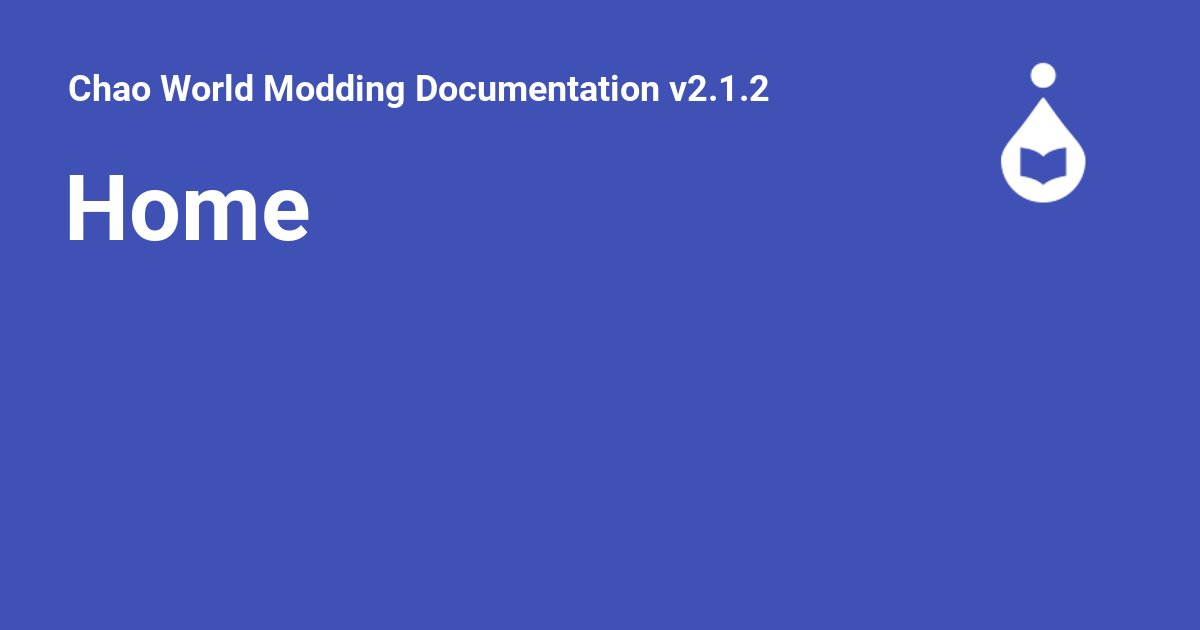
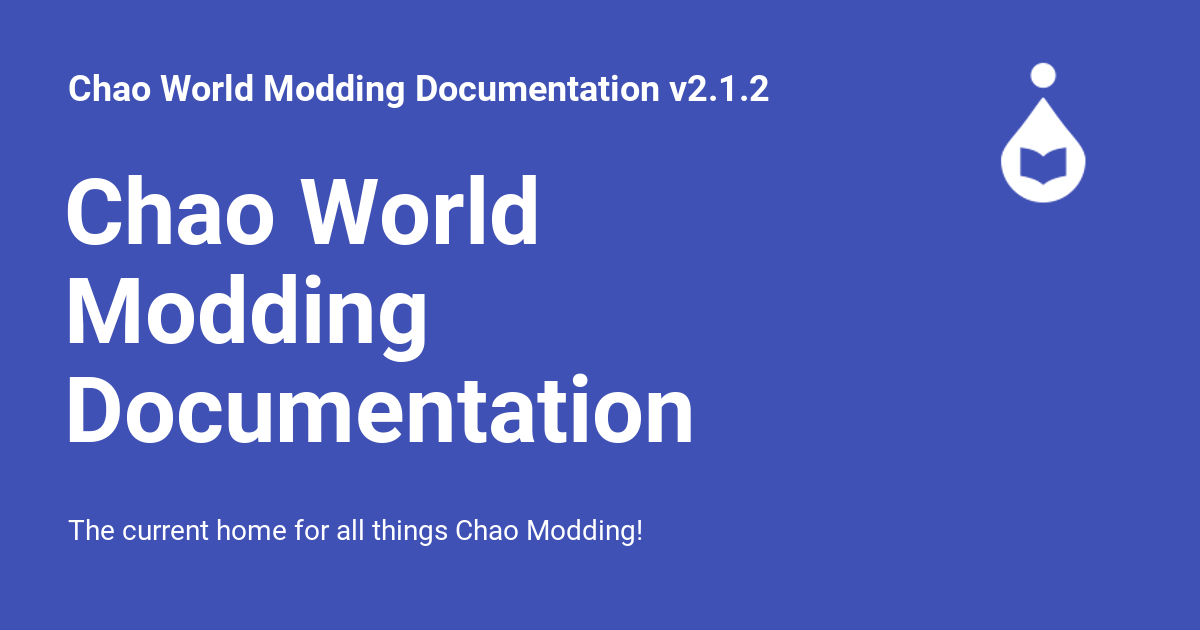
Deployed 1cbd5d7 with MkDocs version: 1.6.0

diff --git a/index.html b/index.html
@@ -6,6 +6,8 @@
       <meta charset="utf-8">
       <meta name="viewport" content="width=device-width,initial-scale=1">
       
+        <meta name="description" content="The current home for all things Chao Modding!">
+      
       
       
         <link rel="canonical" href="https://nostalgianinja.github.io/ChaoModding_Docs/">
@@ -20,7 +22,7 @@
     
     
       
-        <title>Chao World Modding Documentation v2.1.2</title>
+        <title>Chao World Modding Documentation - Chao World Modding Documentation v2.1.2</title>
       
     
     
@@ -55,9 +57,9 @@
       
         <meta  property="og:type"  content="website" >
       
-        <meta  property="og:title"  content="Home" >
+        <meta  property="og:title"  content="Chao World Modding Documentation" >
       
-        <meta  property="og:description"  content="None" >
+        <meta  property="og:description"  content="The current home for all things Chao Modding!" >
       
         <meta  property="og:image"  content="https://nostalgianinja.github.io/ChaoModding_Docs/assets/images/social/index.png" >
       
@@ -71,9 +73,9 @@
       
         <meta  name="twitter:card"  content="summary_large_image" >
       
-        <meta  name="twitter:title"  content="Home" >
+        <meta  name="twitter:title"  content="Chao World Modding Documentation" >
       
-        <meta  name="twitter:description"  content="None" >
+        <meta  name="twitter:description"  content="The current home for all things Chao Modding!" >
       
         <meta  name="twitter:image"  content="https://nostalgianinja.github.io/ChaoModding_Docs/assets/images/social/index.png" >
       
@@ -133,7 +135,7 @@
         <div class="md-header__topic" data-md-component="header-topic">
           <span class="md-ellipsis">
             
-              Home
+              Chao World Modding Documentation
             
           </span>
         </div>
